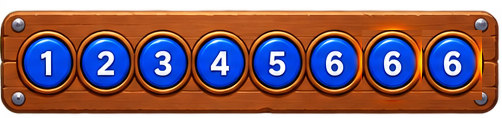
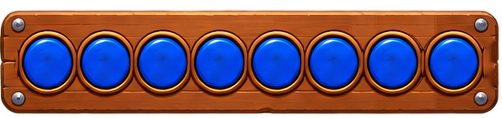
mole v939: ROUND 숫자 원을 사용자 제공 그림으로(기본·현재 빛·잠김), 숫자판 원 자리 정리
Claude-Session: https://claude.ai/code/session_01LWSN3ftvj4Pts7rWjx2RvX

diff --git a/mole/style.css b/mole/style.css
@@ -6234,3 +6234,15 @@ html, body, .cosmic-bg { background: #2a190d; }
   border-style: solid; border-color: transparent; border-width: 24px 22px 11px;
   border-image: url('assets/workshop/sign.png') 88 95 44 fill / 24px 22px 11px stretch; }
 .shop-banner-txt, .inv-banner-txt { color: #fff; -webkit-text-stroke: 2.5px #4a2208; paint-order: stroke fill; text-shadow: 0 2px 0 rgba(60, 25, 5, 0.5); }
+/* v939(사용자 제공 원 그림): ROUND 숫자 원 = 기본(파랑)·현재(노란 빛)·잠김(회색) 그림. 숫자판은 원 없는 자리까지 정리한 그림 위에 원을 얹음 */
+.round-strip [data-rs-round="1"] { left: 17.65%; } .round-strip [data-rs-round="2"] { left: 26.89%; }
+.round-strip [data-rs-round="3"] { left: 36.14%; } .round-strip [data-rs-round="4"] { left: 45.38%; }
+.round-strip [data-rs-round="5"] { left: 54.62%; } .round-strip [data-rs-round="6"] { left: 63.86%; }
+.round-strip [data-rs-round="7"] { left: 73.11%; } .round-strip [data-rs-round="8"] { left: 82.35%; }
+.round-strip .rs-circle { top: 76.7%; width: 10.6%; background: url('assets/home2/rs-normal.png') center / 100% 100% no-repeat; box-shadow: none; animation: none;
+  font-family: 'Lilita One', 'Jua', sans-serif; font-weight: 400; font-size: clamp(0.62rem, 3.3vw, 0.95rem); color: #fff; -webkit-text-stroke: 2px rgba(0, 20, 90, 0.75); paint-order: stroke fill; text-shadow: 0 1px 1px rgba(0, 0, 0, 0.5); }
+.round-strip .rs-circle.is-locked { background-image: url('assets/home2/rs-lock.png'); background-color: transparent; color: rgba(255, 255, 255, 0.55); }
+.round-strip .rs-circle.is-current { background: none; box-shadow: none; animation: none; z-index: 11; }
+.round-strip .rs-circle.is-current::before { content: ''; position: absolute; inset: -11.8%; z-index: -1; background: url('assets/home2/rs-on.png') center / 100% 100% no-repeat; animation: rs-on-pulse 1.4s ease-in-out infinite; }
+@keyframes rs-on-pulse { 0%, 100% { transform: scale(1); filter: brightness(1); } 50% { transform: scale(1.06); filter: brightness(1.15); } }
+.round-strip .rs-circle.rs-flare { animation: rs-flare 0.85s ease-out; }

diff --git a/mole/index.html b/mole/index.html
@@ -872,7 +872,7 @@
       <div id="lane-button-bar">
         <!-- 배포 버전 표식(스크린샷으로 어느 버전인지 확인용) — 화면 좌하단에 두면 다른 UI에
              가려 잘 안 보인다는 사용자 지적으로, 하트 아이콘(다이얼패드 1번 칸) 바로 위로 이동. -->
-        <div id="build-tag" aria-hidden="true">v938</div>
+        <div id="build-tag" aria-hidden="true">v939</div>
         <!-- 피버타임(터치캐치 보너스타임) 전광판 — 버튼보드 자리를 통째로 덮는 오버레이,
              평소엔 hidden, 피버 중에만 콤보/잔여시간 표시(사용자 지정: "전광판처럼"). -->
         <div id="fever-scoreboard" class="fever-scoreboard" hidden>
@@ -1126,7 +1126,7 @@ window.FGH.rollOut = function (el, done) {
       } else {
         // ?v= 로 매 배포마다 URL을 바꿔서 GitHub Pages의 sw.js 캐시(max-age=600)를 무조건 우회 —
         // 안 그러면 배포 직후에도 최대 10분간 옛 서비스워커가 안 갈리는 경우가 있었음(사용자 보고).
-        navigator.serviceWorker.register('sw.js?v=938').catch(function () {});
+        navigator.serviceWorker.register('sw.js?v=939').catch(function () {});
       }
     });
   }

diff --git a/mole/sw.js b/mole/sw.js
@@ -3,7 +3,7 @@
 // 폴백 전용으로만 갱신한다. (예전엔 stale-while-revalidate라 배포해도 "다음 실행"에야
 // 반영돼 사용자 체감 대기가 길었음 — 온라인=항상 최신, 오프라인=마지막 캐시로 변경.)
 // SHELL 목록 자체가 바뀔 때만 CACHE 를 올린다.
-const CACHE = 'mole-game-v938';
+const CACHE = 'mole-game-v939';
 
 // 화면별 BGM(audio/bgm-*.mp3)은 v275 부터 SHELL 에 포함 — 기본 켜짐(v272)이라 항상 필요하고,
 // 캐시가 안 돼 있으면 오프라인/느린망에서 재생 실패했음.
